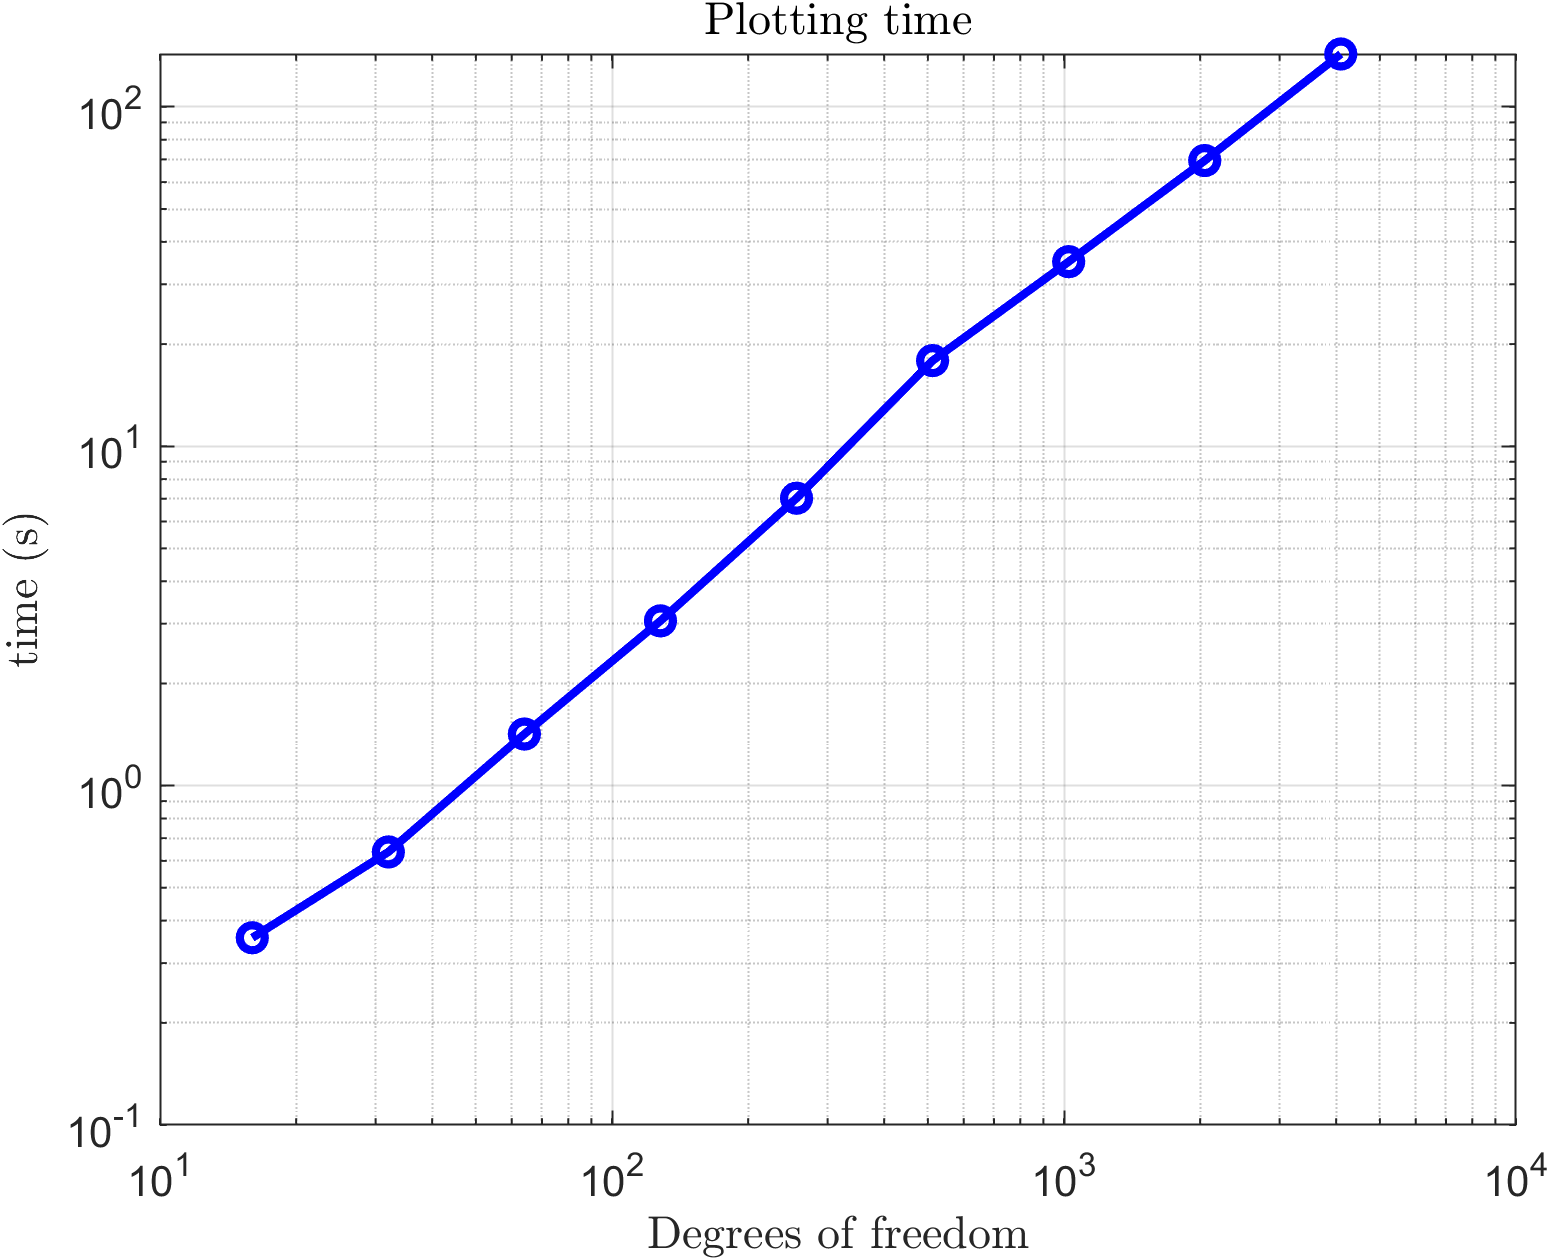
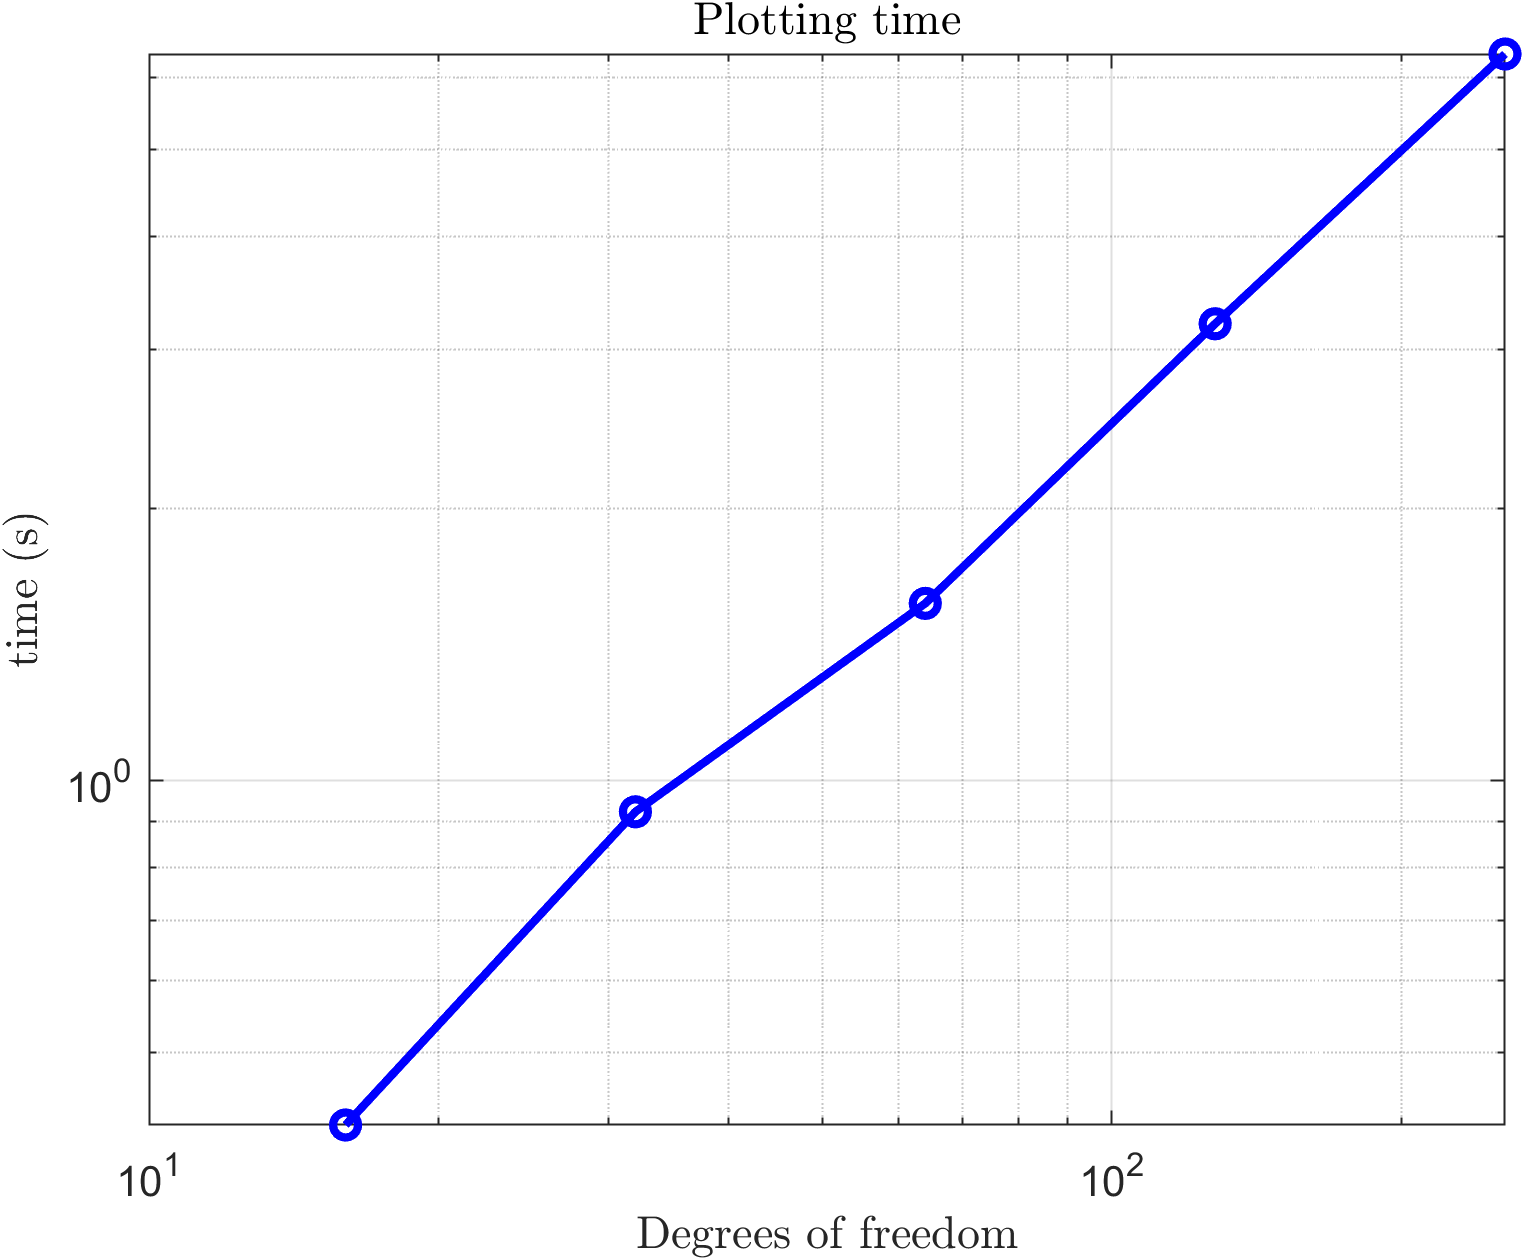
ostacolo curvilineo

diff --git a/Progetto esame/BEM.m b/Progetto esame/BEM.m
@@ -1,12 +1,12 @@
 clear; clc; close all; 
 
 % Parameters
-v = 0.5*[-1+1i, -1-1i, 1-1i 1+1i]; % vertices of \Gamma (counterclockwise)
+v = 0.5*[-1+1i, -1-1i, 1-1i]; % vertices of \Gamma (counterclockwise)
 k = 20;
 N = 1000; % degrees of freedom. (Usually N ~ k ~ 1/h). Here I use N=4*k or N = 1000 for some test
 x_lim = [-1.5 1.5]; 
 y_lim = [-1.5 1.5];
-theta = -pi/4;
+theta = pi/3;
 n_gauss_pts_plot = 5;
 n_gauss_pts_off_diag = 5;
 n_gauss_pts_on_diag = 30;
@@ -69,11 +69,12 @@ F = -u_inc(x_k);
 
 A = zeros(N, N);
 [xq_off_diag, wq_off_diag] = gaussquad(n_gauss_pts_off_diag);
+y_q = p_k + h_k * xq_off_diag.' .* tau_k;
 for j = 1:N
-    y_q = p_k + h_k * xq_off_diag.' .* tau_k;
+    
     r = abs(x_k(j)-y_q);
-    integrand2 = besselh(0, 1, k*r);
-    A(j, :) = sum((1i/4) * integrand2 .* h_k * wq_off_diag, 2);
+    integrand = besselh(0, 1, k*r);
+    A(j, :) = sum((1i/4) * integrand .* h_k * wq_off_diag, 2);
 end
 % fix the diagonal of A
 [xq_on_diag, wq_on_diag] = gaussquad(n_gauss_pts_on_diag);
@@ -118,15 +119,15 @@ u_tot(in) = complex(NaN, NaN);
 u_inc_grid(in) = complex(NaN, NaN);
 u_scat(in) = complex(NaN, NaN);
 figure;
-pcolor(X, Y, real(u_scat)); shading flat; axis square; axis off
+pcolor(X, Y, real(u_scat)); shading flat; axis square; axis off; colorbar;
 title("$\mathcal{R}u_{scat}$", Interpreter="latex")
 
 figure;
-pcolor(X, Y, real(u_inc_grid)); shading flat; axis square; axis off
+pcolor(X, Y, real(u_inc_grid)); shading flat; axis square; axis off; colorbar;
 title("$\mathcal{R}u_{inc}$", Interpreter="latex")
 
 figure ;
-pcolor(X, Y, real(u_tot)); shading flat; axis square; axis off
+pcolor(X, Y, real(u_tot)); shading flat; axis square; axis off; colorbar;
 title("$\mathcal{R}u_{tot}$", Interpreter="latex")
 
 fprintf("Time to assemble A and F = %f seconds\n", time_assembling)

diff --git a/Progetto esame/BEM_func.m b/Progetto esame/BEM_func.m
@@ -52,8 +52,9 @@ function [u_scat, times, mean_h] = BEM_func(N)
     
     A = zeros(N, N);
     [xq_off_diag, wq_off_diag] = gaussquad(n_gauss_pts_off_diag);
+    y_q = p_k + h_k * xq_off_diag.' .* tau_k;
+    
     for j = 1:N
-        y_q = p_k + h_k * xq_off_diag.' .* tau_k;
         r = abs(x_k(j)-y_q);
         integrand = besselh(0, 1, k*r);
         A(j, :) = sum((1i/4) * integrand .* h_k * wq_off_diag, 2);
@@ -63,7 +64,7 @@ function [u_scat, times, mean_h] = BEM_func(N)
     for j = 1:N
         y_q = h_k(j)/2 * xq_on_diag;
        
-        integrand = besselh(0, 1, k*y_q);
+        integrand = besselh(0, 1, k*y_q);  
         A(j, j) = (1i/2)*(h_k(j)/2)*wq_on_diag.'*integrand;
     end
     time_assembling = toc;

diff --git a/Progetto esame/test/prova2.m b/Progetto esame/test/prova2.m
@@ -1,3 +1,3 @@
 clear; clc; close all;
 
-[u_scat, times] = BEM_func(1000);
+[u_scat, times] = BEM_func(100);
